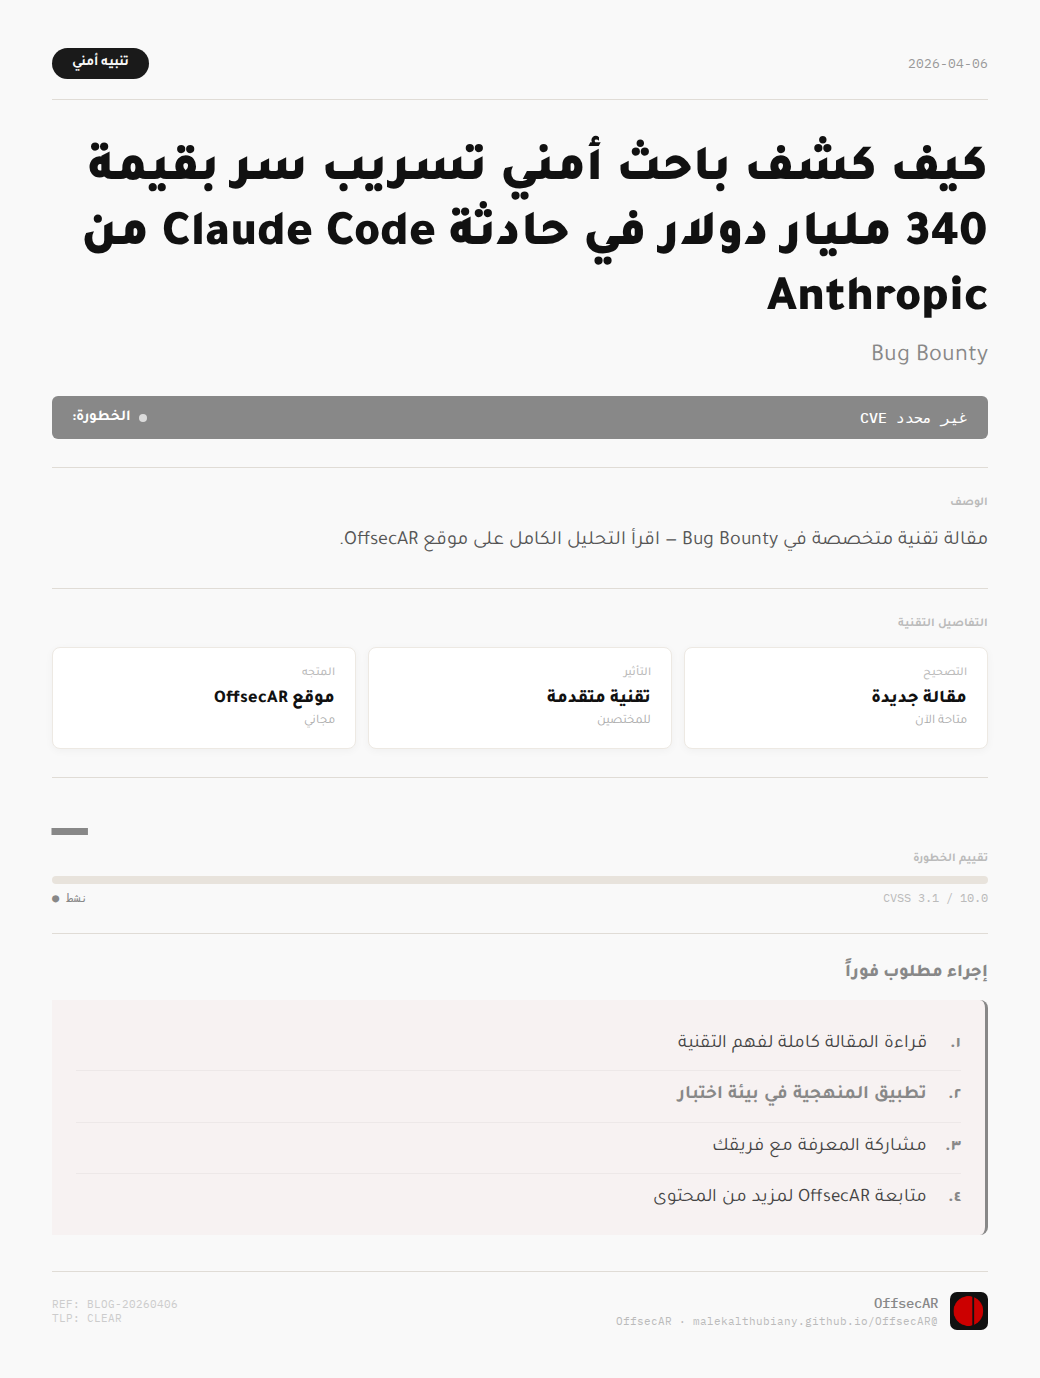
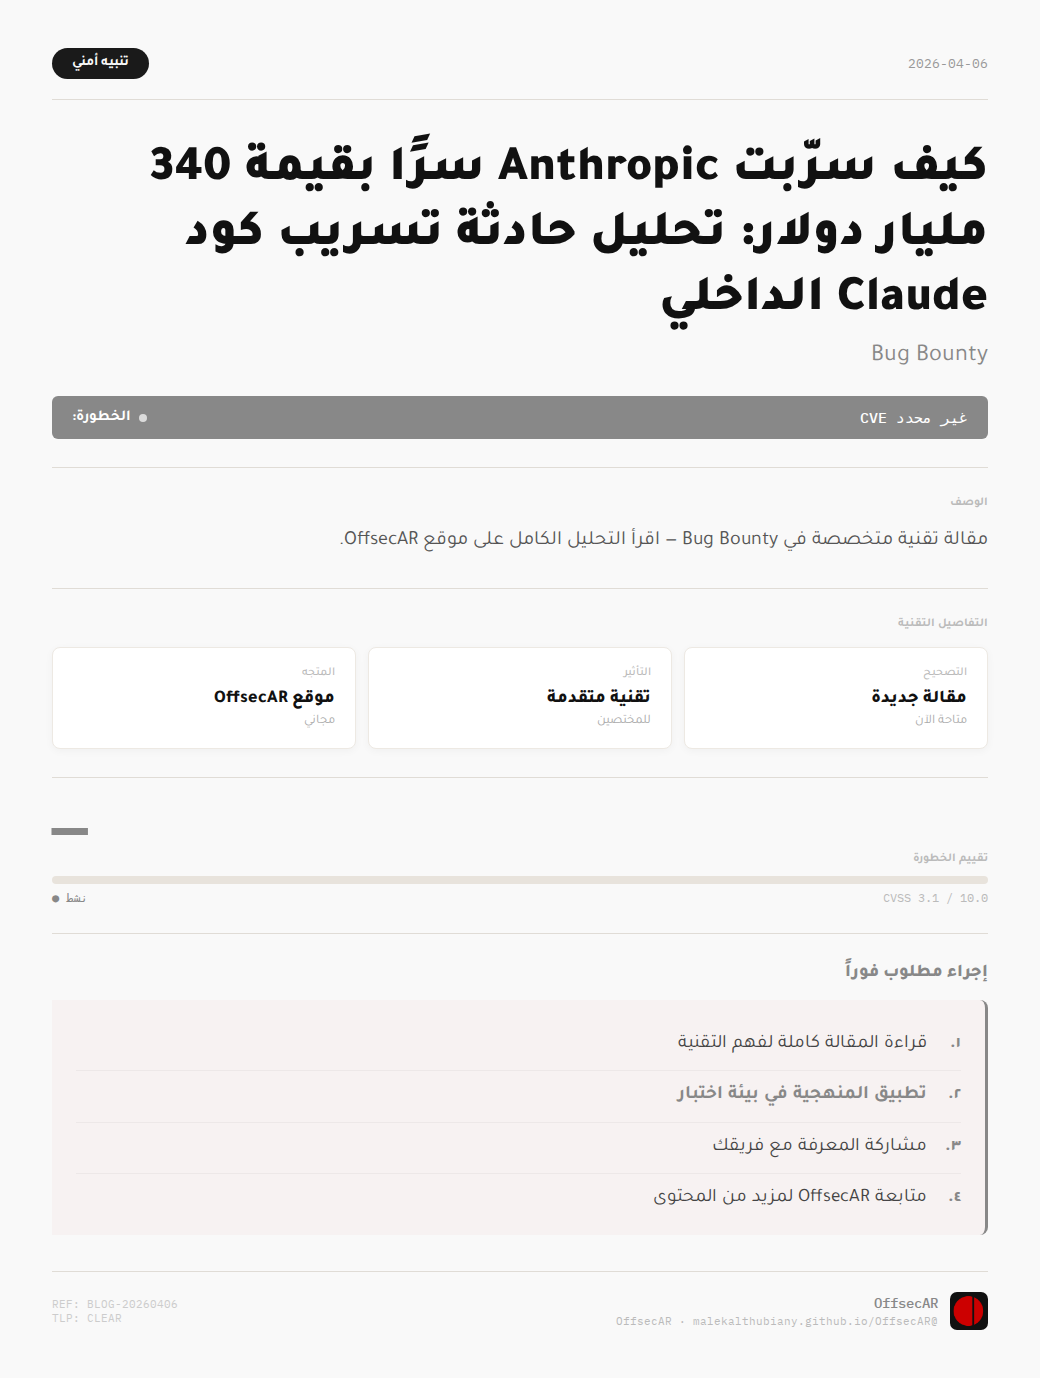
📰 2026-04-06 · خبر + 3 مقالات

Changed region(s): [[0.0615, 0.0936, 0.9538, 0.2496]]

diff --git a/_blogs/2026-04-06-bugbounty-2026-04-06.md b/_blogs/2026-04-06-bugbounty-2026-04-06.md
@@ -1,73 +1,70 @@
 ---
 layout: blog
-title: "كيف كشف باحث أمني تسريب سر بقيمة 340 مليار دولار في حادثة Claude Code من Anthropic"
-date: 2026-04-06T10:41:01Z
+title: "كيف سرّبت Anthropic سرًا بقيمة 340 مليار دولار: تحليل حادثة تسريب كود Claude الداخلي"
+date: 2026-04-06T14:04:51Z
 category: "Bug Bounty"
-excerpt: "في الأول من أبريل، ظهر ما بدا كمزحة: تسريب كود Claude من شركة Anthropic المقدرة بـ340 مليار دولار. لكن عندما اختفت النسخة v2.1.88 من مستودع npm بشكل كامل، تبين أن الأمر حقيقي. هذه قصة واحدة من أخطر حوادث تسريب الأكواد المصدرية في تاريخ شركات الذكاء الاصطناعي، وما يمكن أن نتعلمه منها."
-read_time: 5
-tags: ["Bug Bounty", "تسريب البيانات", "أمن المعلومات", "Anthropic", "الذكاء الاصطناعي"]
+excerpt: "في الأول من أبريل 2025، ظهر تسريب غير مسبوق لكود مصدري داخلي من Anthropic على منصة npm. ما بدا للوهلة الأولى كمزحة أبريل، تحوّل إلى واحدة من أخطر حوادث التسريب في تاريخ شركات الذكاء الاصطناعي. الإصدار v2.1.88 من حزمة @anthropic-ai/claude-code اختفى تمامًا من السجلات، لكن الضرر كان قد وقع بالفعل."
+read_time: 6
+tags: ["Bug Bounty", "Supply Chain Security", "تسريبات البيانات"]
 slug: "bugbounty-2026-04-06"
 image: "/OffsecAR/assets/images/blogs/bugbounty-2026-04-06.svg"
 ---
 
-## عندما تتحول المزحة إلى كارثة أمنية
+## القصة: عندما تتحول المزحة إلى كارثة أمنية
 
-في صباح الأول من أبريل 2025، بدأت التغريدات والمنشورات تنتشر حول تسريب الكود المصدري لـ Claude من شركة Anthropic. كان التوقيت مثاليًا لمزحة أبريل - تمامًا كما تفعل شركات مثل Google كل عام. لكن الباحث الذي تتبع القصة قرر التحقق من مستودع npm، وهناك اكتشف أمرًا مقلقًا: النسخة v2.1.88 من الحزمة `@anthropic-ai/claude-code` لم تكن موجودة. لم تُعلّم كمُهملة، ولم تُخفَ فقط - بل مُسحت تمامًا من الوجود.
+عندما بدأت التقارير تنتشر عن تسريب كود Claude الداخلي في الأول من أبريل، كان رد فعل معظم المتابعين هو التجاهل. فالشركات التقنية الكبرى معتادة على إطلاق مزحات متقنة في هذا اليوم. لكن التحقق من سجلات npm كشف حقيقة مذهلة: الحزمة @anthropic-ai/claude-code بالإصدار v2.1.88 كانت موجودة بالفعل، ثم اختفت بشكل كامل.
 
-هذا السلوك غير المعتاد من شركة بحجم Anthropic، المقدرة بـ340 مليار دولار، كان الدليل الأول على أن الأمر ليس مزحة على الإطلاق.
+التسريب لم يكن مجرد كود عادي. كان يحتوي على أجزاء من البنية التحتية الداخلية لـ Claude، خوارزميات معالجة اللغة الطبيعية، وربما أسرار تقنية تقدر قيمة Anthropic بأكثر من 340 مليار دولار. الحادثة تثير تساؤلات جدية حول أمن سلسلة التوريد البرمجية (Supply Chain Security) في عصر الذكاء الاصطناعي.
 
-## ما الذي حدث بالضبط؟
+## تشريح الحادثة: كيف حدث التسريب؟
 
-الحادثة تتعلق بتسريب غير مقصود لحزمة برمجية على مستودع npm - أحد أكبر مستودعات الحزم البرمجية لمطوري JavaScript في العالم. الحزمة المسربة كانت تحمل اسم `@anthropic-ai/claude-code` وتحتوي على أجزاء من الكود المصدري الداخلي لنموذج Claude.
+حوادث تسريب الأكواد على npm ليست جديدة، لكن هذه الحالة تتميز بعدة عوامل:
 
-عادةً ما تكون مثل هذه الأكواد من أغلى أسرار الشركات التقنية، خاصة في مجال الذكاء الاصطناعي حيث تُقدر الخوارزميات والبنية التحتية بمليارات الدولارات. تسريب هذا النوع من المعلومات يمكن أن يُعطي المنافسين ميزة هائلة، ويكشف عن نقاط ضعف أمنية، ويُعرض الملكية الفكرية للخطر.
+**السيناريو المحتمل:**
+1. **خطأ بشري في عملية النشر**: مطور داخلي نشر حزمة خاطئة على npm العام بدلاً من السجل الخاص
+2. **ضعف في ضوابط الوصول**: عدم وجود مراجعة كافية قبل النشر على المستودعات العامة
+3. **غياب الأتمتة الآمنة**: عدم وجود آليات منع تلقائية لنشر الحزم الحساسة
 
-ردة فعل Anthropic السريعة بحذف النسخة كانت محاولة لاحتواء الضرر، لكن في عالم الإنترنت، ما يُنشر مرة نادرًا ما يختفي تمامًا. المستودعات المرآة، والنسخ المخبأة، والباحثون الذين حملوا الحزمة قبل حذفها - كلها عوامل تجعل "التراجع" شبه مستحيل.
+ما يجعل الأمر أكثر خطورة هو أن npm يحتفظ بنسخ مؤقتة (caching) من الحزم على خوادم CDN متعددة، مما يعني أن الكود ربما بقي متاحًا لفترة حتى بعد حذفه من السجل الرسمي.
 
-## الدروس الأمنية المستفادة
+## التأثير الأمني: أبعد من مجرد تسريب كود
 
-### 1. **إدارة الأسرار في بيئات CI/CD**
+### على مستوى Anthropic:
+- **فقدان الميزة التنافسية**: الخوارزميات والتقنيات الخاصة أصبحت متاحة للمنافسين
+- **مخاطر الملكية الفكرية**: إمكانية نسخ أو استنساخ التقنيات المسجلة
+- **ثقة العملاء**: الشركات المؤسسية التي تعتمد على Claude قد تعيد تقييم الثقة
 
-أحد أكثر الأخطاء شيوعًا التي تؤدي لمثل هذه التسريبات هو سوء إدارة بيانات الاعتماد والأكواد الحساسة في سلاسل التكامل والنشر المستمر. يجب على الشركات:
+### على مستوى الصناعة:
+هذه الحادثة تكشف هشاشة نموذج الاعتماد على مستودعات عامة مثل npm في بيئات المشاريع الحساسة. شركات الذكاء الاصطناعي تتعامل مع أصول بمليارات الدولارات، لكن ممارساتها الأمنية قد لا تكون بنفس المستوى.
 
-- استخدام أدوات إدارة الأسرار مثل HashiCorp Vault أو AWS Secrets Manager
-- تطبيق مراجعات كود صارمة قبل أي عملية نشر
-- استخدام ملفات `.gitignore` و `.npmignore` بشكل صحيح
-- فحص الحزم قبل نشرها باستخدام أدوات آلية
+## الدروس المستفادة للباحثين الأمنيين
 
-### 2. **الاستجابة للحوادث**
+### 1. مراقبة المستودعات العامة
+الباحثون في Bug Bounty يجب أن يراقبوا باستمرار المستودعات العامة (npm, PyPI, Maven) للشركات المستهدفة. أدوات مثل `npm-search` و`socket.dev` تساعد في رصد النشر غير المقصود للحزم.
 
-استجابة Anthropic بحذف الحزمة فورًا كانت صحيحة، لكنها غير كافية. الاستراتيجية الكاملة يجب أن تشمل:
+### 2. التوثيق السريع
+عند اكتشاف تسريب محتمل، التوثيق الفوري ضروري:
+- أخذ لقطات شاشة من صفحة الحزمة
+- تحميل نسخة من الكود قبل الحذف
+- توثيق البيانات الوصفية (timestamps, versions, dependencies)
 
-- إشعارات أمنية عاجلة للمستخدمين والشركاء
-- تقييم سريع لمدى انتشار التسريب
-- تحديث فوري لأي مفاتيح API أو بيانات اعتماد قد تكون تسربت
-- تحليل جذري لمعرفة كيف حدث الخطأ
+### 3. الإبلاغ المسؤول
+حتى في حالة التسريبات العامة، التواصل مع فريق الأمن مباشرة قبل النشر العام يُظهر احترافية وقد يؤدي لمكافآت أعلى.
 
-### 3. **الثقة صفرية (Zero Trust)**
+## إجراءات الحماية: كيف تتجنب الشركات هذا السيناريو
 
-حتى الموظفون الموثوقون يمكن أن يرتكبوا أخطاء. تطبيق مبدأ الثقة صفرية يعني:
+**للشركات التي تدير أكواد حساسة:**
 
-- تقييد صلاحيات النشر على المستودعات العامة
-- طلب موافقات متعددة للنشر على الإنتاج
-- مراقبة مستمرة للأنشطة غير الطبيعية
+1. **استخدام سجلات خاصة**: أدوات مثل Verdaccio أو Artifactory لإدارة الحزم الداخلية
+2. **سياسات نشر صارمة**: مراجعة ثنائية (two-person rule) قبل أي نشر
+3. **مراقبة آلية**: تنبيهات فورية عند نشر حزم بأسماء تحتوي على كلمات محجوزة (internal, private, etc.)
+4. **تدريب المطورين**: توعية مستمرة بمخاطر النشر الخاطئ
+5. **استخدام .npmignore بذكاء**: منع ملفات معينة من النشر تلقائيًا
 
-## لماذا يهم صائدو الثغرات؟
+## الخلاصة: درس باهظ الثمن
 
-هذه الحادثة تُظهر أن الثغرات الأمنية ليست دائمًا تقنية معقدة. أحيانًا، الخطأ البشري البسيط - مثل نشر حزمة خاطئة - يمكن أن يكون له تأثير كارثي. بالنسبة لصائدي الثغرات، هذا يعني:
+حادثة Anthropic تذكير صارخ بأن الأمن السيبراني ليس فقط عن الثغرات التقنية المعقدة. أحيانًا، أخطر التهديدات تأتي من أخطاء بشرية بسيطة في عمليات يومية روتينية.
 
-- **مراقبة المستودعات العامة**: npm و GitHub و PyPI يمكن أن تحتوي على كنوز من التسريبات غير المقصودة
-- **التوقيت حاسم**: الحزم المحذوفة قد تشير إلى تسريبات تم اكتشافها متأخرًا
-- **السياق مهم**: فهم قيمة ما تكتشفه - ليس كل تسريب متساوٍ في التأثير
+بالنسبة لصائدي الثغرات، هذه الحوادث تمثل فرصًا ذهبية - ليس لاستغلالها، بل لإثبات القيمة من خلال المساعدة في اكتشافها والإبلاغ عنها بمسؤولية. في عالم تقدر فيه شركات الذكاء الاصطناعي بمئات المليارات، حماية أصولهم الرقمية أصبحت أولوية قصوى.
 
-برامج Bug Bounty عادة لا تكافئ على التسريبات غير المقصودة التي تكتشفها الشركة بنفسها، لكن الإبلاغ المسؤول عن مثل هذه الاكتشافات يمكن أن يبني سمعة قوية في المجتمع الأمني.
-
-## الخلاصة
-
-حادثة Claude Code تذكير صارخ بأن حماية الأصول الرقمية تتطلب يقظة مستمرة وعمليات محكمة. شركة بقيمة 340 مليار دولار ليست محصنة ضد الأخطاء البشرية، وهذا يجب أن يكون درسًا للجميع - من الشركات الناشئة إلى عمالقة التكنولوجيا.
-
-بالنسبة لمجتمع Bug Bounty، القصة تؤكد أهمية الفضول التقني والتحقق من التفاصيل الصغيرة. أحيانًا، أكبر الاكتشافات تبدأ بسؤال بسيط: "هل هذا حقيقي؟"
-
----
-
-**المصدر**: [How to Leak a $340B Secret: The Anthropic "Claude Code" Incident](https://infosecwriteups.com/how-to-leak-a-340b-secret-the-anthropic-claude-code-incident-663b3d6e3bb4?source=rss----7b722bfd1b8d---4)
+السؤال الذي يبقى مفتوحًا: كم من التسريبات المماثلة تحدث دون أن نلاحظها؟

diff --git a/_posts/2026-04-06-offensec-2026-04-06.md b/_posts/2026-04-06-offensec-2026-04-06.md
@@ -1,7 +1,7 @@
 ---
 layout: post
 title: "ثغرة حرجة في FortiClient EMS تُستغل فعلياً وFortinet تُصدر تحديثاً طارئاً في عطلة نهاية الأسبوع"
-date: 2026-04-06T10:33:56Z
+date: 2026-04-06T13:58:07Z
 category: "ثغرة حرجة"
 severity: "حرجة"
 severity_en: "critical"
@@ -11,10 +11,10 @@ source: "BleepingComputer"
 source_url: "https://www.bleepingcomputer.com/news/security/new-fortinet-forticlient-ems-flaw-cve-2026-35616-exploited-in-attacks/"
 tweet_url: ""
 image: "/OffsecAR/assets/images/2026-04-06-advisory.png"
-hashtags: "#أمن_المعلومات #Fortinet #ثغرات_يوم_الصفر #أمن_المؤسسات #FortiClient"
+hashtags: "#أمن_المعلومات #Fortinet #ثغرات_يوم_الصفر #أمن_الشركات #تحديث_أمني"
 ---
 
-في خطوة غير معتادة، أصدرت Fortinet تحديثاً أمنياً طارئاً خلال عطلة نهاية الأسبوع لمعالجة ثغرة حرجة في FortiClient Enterprise Management Server. الثغرة المُصنّفة CVE-2026-35616 تُستغل فعلياً في هجمات حقيقية، مما دفع الشركة للتحرك السريع. نظام FortiClient EMS يُستخدم على نطاق واسع في المؤسسات لإدارة برامج حماية نقاط النهاية مركزياً. استغلال هذه الثغرة يمنح المهاجمين موطئ قدم استراتيجي داخل الشبكات المؤسسية. يُنصح مديرو الأمن بتطبيق التحديث فوراً دون انتظار. الهجمات النشطة تجعل كل ساعة تأخير فرصة إضافية للمهاجمين.
+في خطوة نادرة تعكس حجم الخطر، أصدرت Fortinet تحديثاً أمنياً طارئاً خلال عطلة نهاية الأسبوع لمعالجة ثغرة حرجة في منتج FortiClient Enterprise Management Server. الثغرة المُسجلة برقم CVE-2026-35616 تُستغل فعلياً في هجمات حقيقية تستهدف المؤسسات. يُعد FortiClient EMS مكوناً محورياً في البنية التحتية الأمنية للشركات، إذ يدير نقاط النهاية مركزياً. استغلال هذه الثغرة قد يمنح المهاجمين موطئ قدم استراتيجي داخل الشبكات المؤسسية. تُوصي Fortinet جميع العملاء بتطبيق التحديث فوراً دون انتظار. هذا الحادث يُذكّرنا بأهمية المراقبة المستمرة حتى في أوقات الراحة.
 
 ---
 
